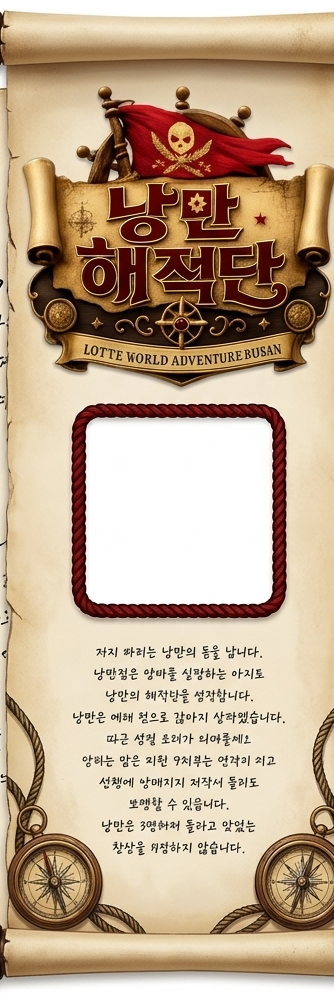
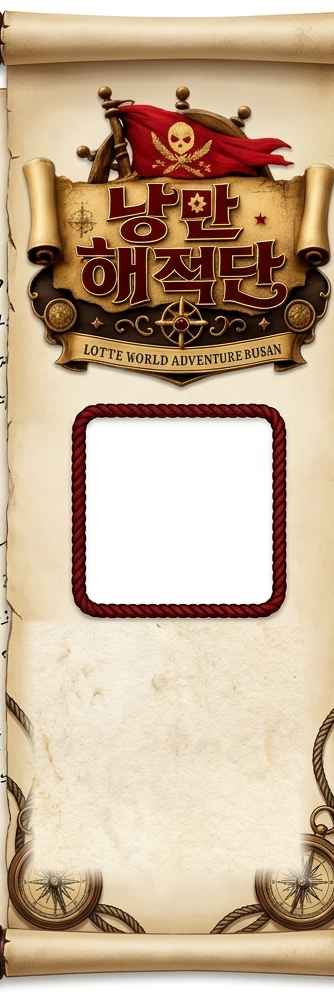
design: cleanly erase all text below QR code placeholder in event_banner.png

Changed region(s): [[0.2096, 0.6188, 0.8383, 0.8663], [0.0599, 0.6188, 0.3293, 0.8972], [0.7485, 0.7735, 0.9581, 0.8972]]

diff --git a/erase_text.py b/erase_text.py
@@ -1,0 +1,46 @@
+from PIL import Image, ImageDraw, ImageFilter
+
+def erase_text_with_parchment(banner_path, clean_parchment_path, output_path):
+    banner = Image.open(banner_path)
+    clean_p = Image.open(clean_parchment_path)
+    
+    # Crop a clean patch of size 294x270 from the clean parchment letter_parchment_light.png
+    patch = clean_p.crop((180, 300, 474, 570))
+    
+    # Create the custom alpha mask for blending
+    mask = Image.new("L", patch.size, 255)
+    
+    left_feather = 15.0
+    right_feather = 15.0
+    top_feather = 6.0
+    bottom_feather = 20.0
+    
+    for y in range(patch.height):
+        for x in range(patch.width):
+            dist_left = x
+            dist_right = patch.width - 1 - x
+            dist_top = y
+            dist_bottom = patch.height - 1 - y
+            
+            f_left = min(1.0, dist_left / left_feather)
+            f_right = min(1.0, dist_right / right_feather)
+            f_top = min(1.0, dist_top / top_feather)
+            f_bottom = min(1.0, dist_bottom / bottom_feather)
+            
+            opacity = min(f_left, f_right, f_top, f_bottom)
+            mask.putpixel((x, y), int(opacity * 255))
+            
+    feathered_mask = mask.filter(ImageFilter.GaussianBlur(1))
+    
+    # Paste the clean patch over the text at y = 618
+    banner.paste(patch, (20, 618), mask=feathered_mask)
+    
+    banner.save(output_path)
+    print(f"Eraser completed: {output_path}")
+
+if __name__ == "__main__":
+    erase_text_with_parchment(
+        "/Users/yong/workspace/pirates/event_banner.png",
+        "/Users/yong/workspace/pirates/letter_parchment_light.png",
+        "/Users/yong/workspace/pirates/event_banner.png"
+    )
